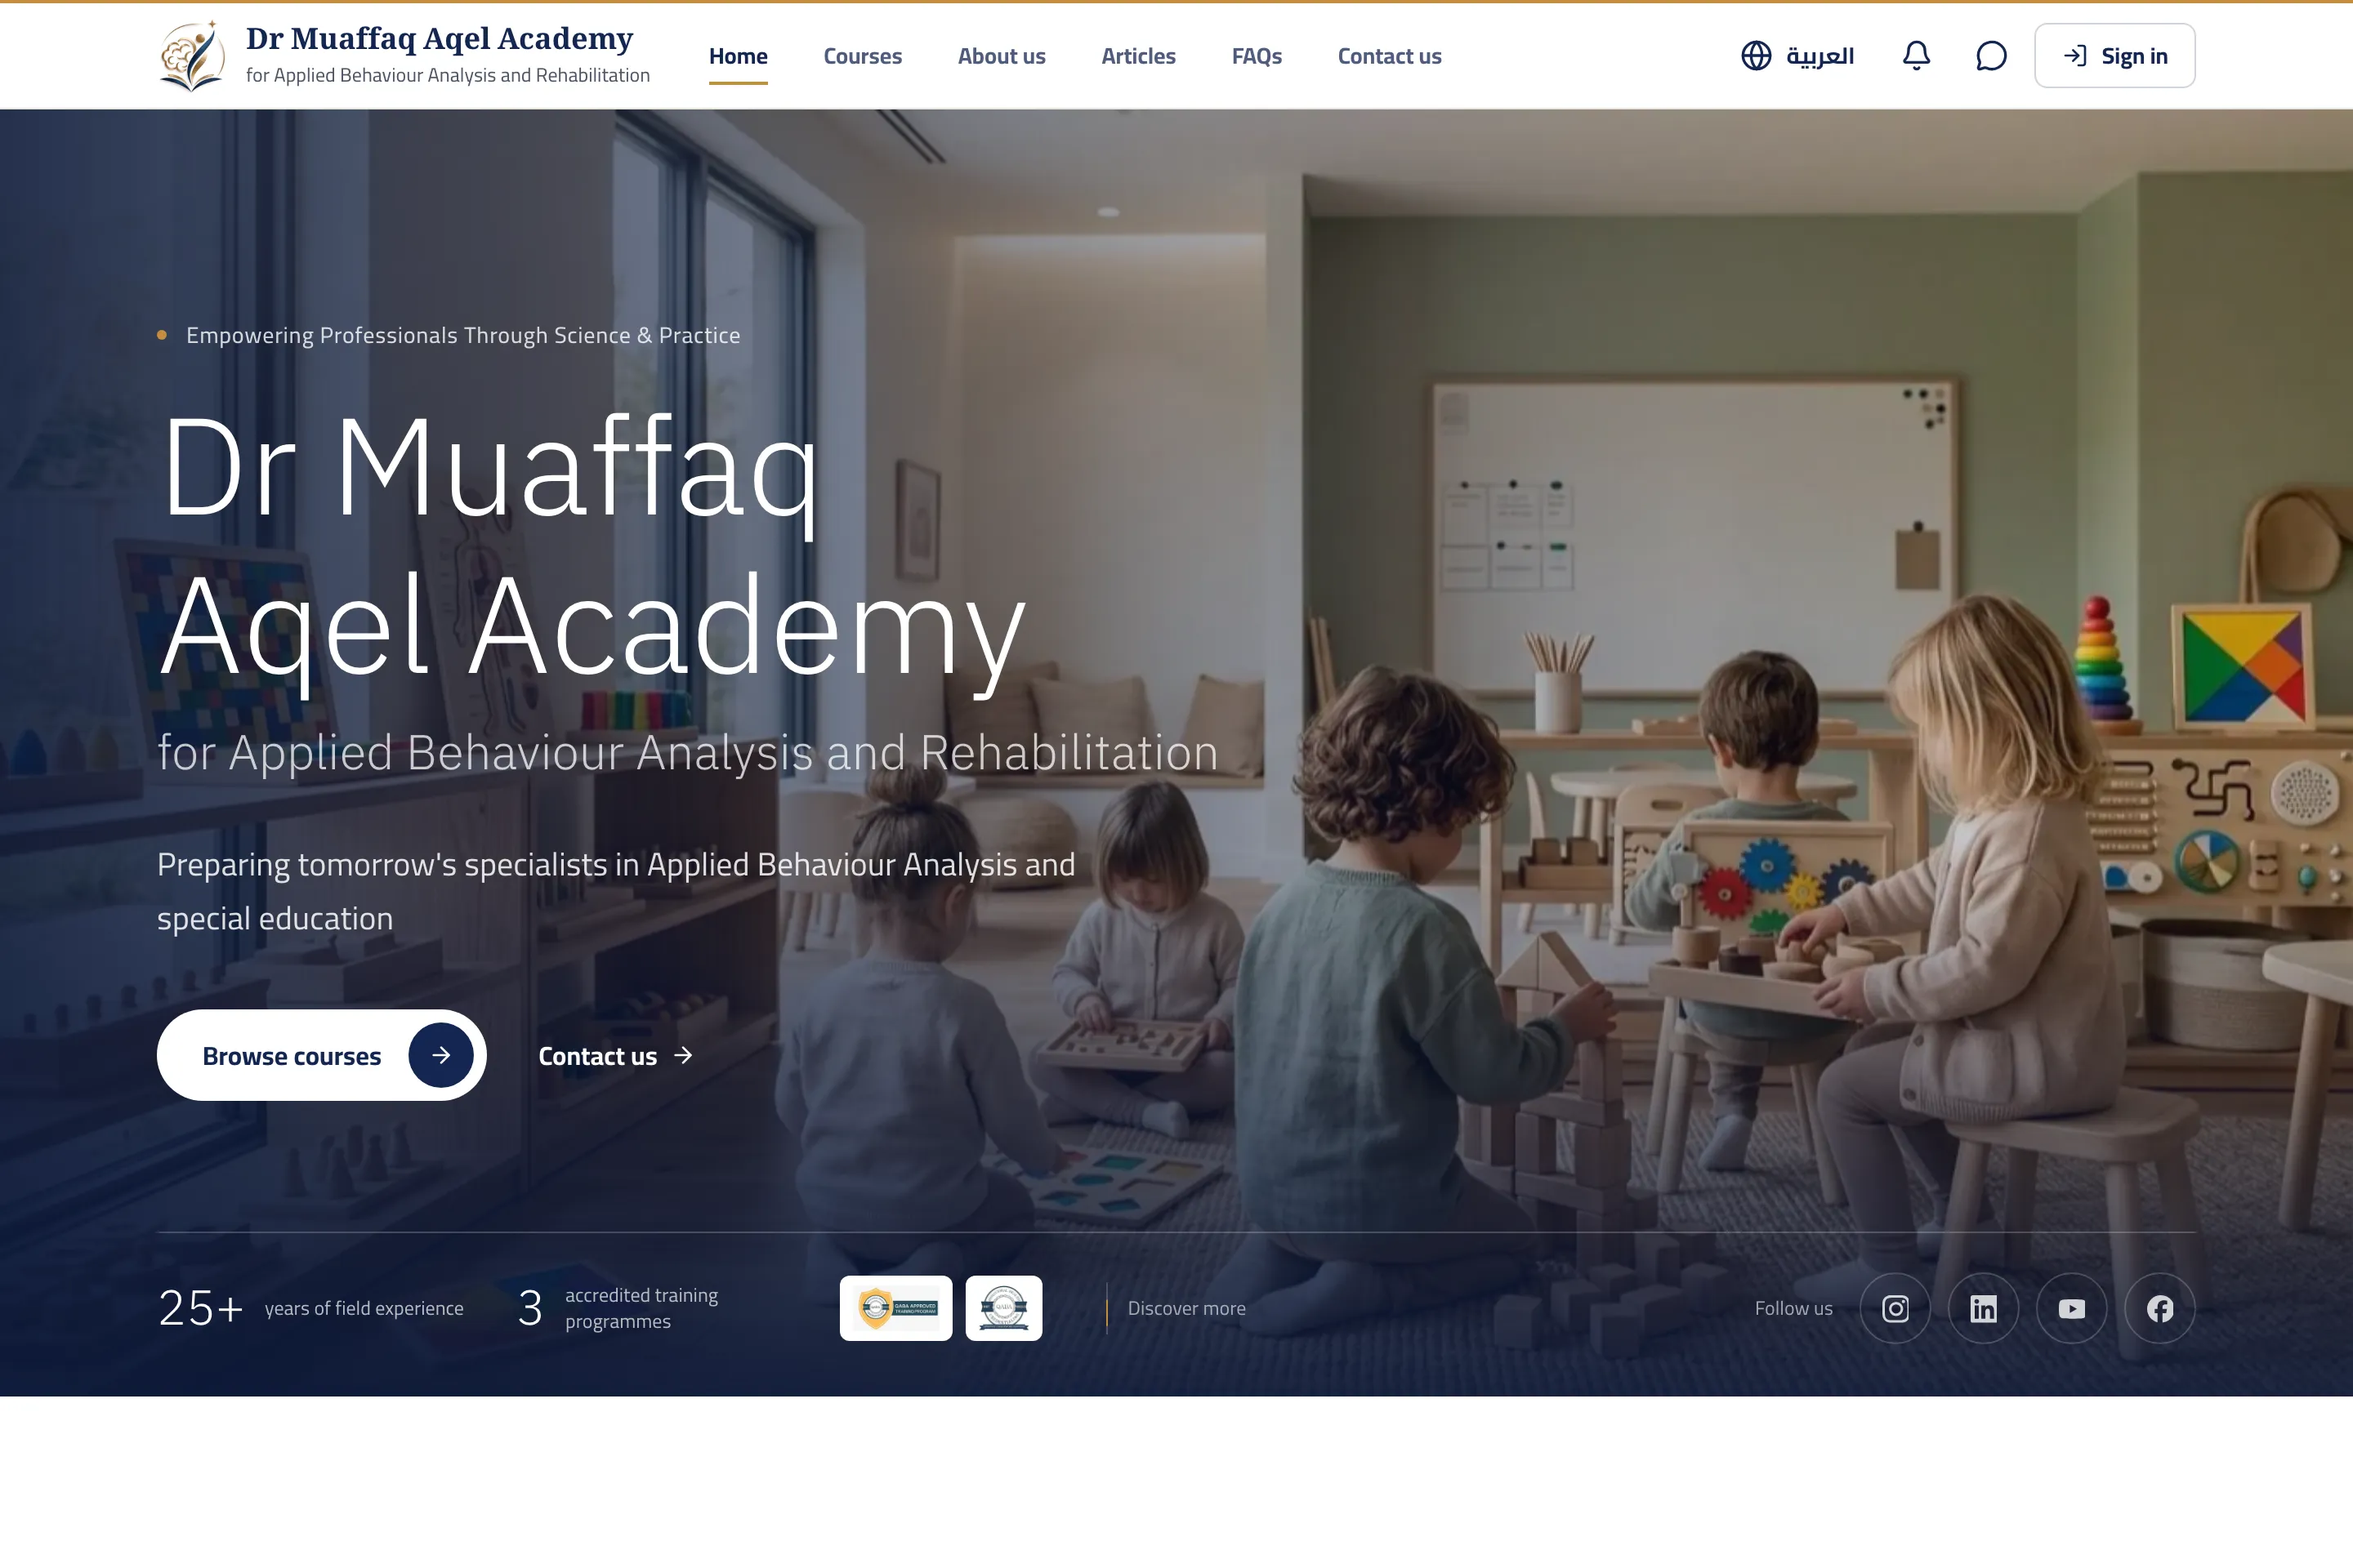
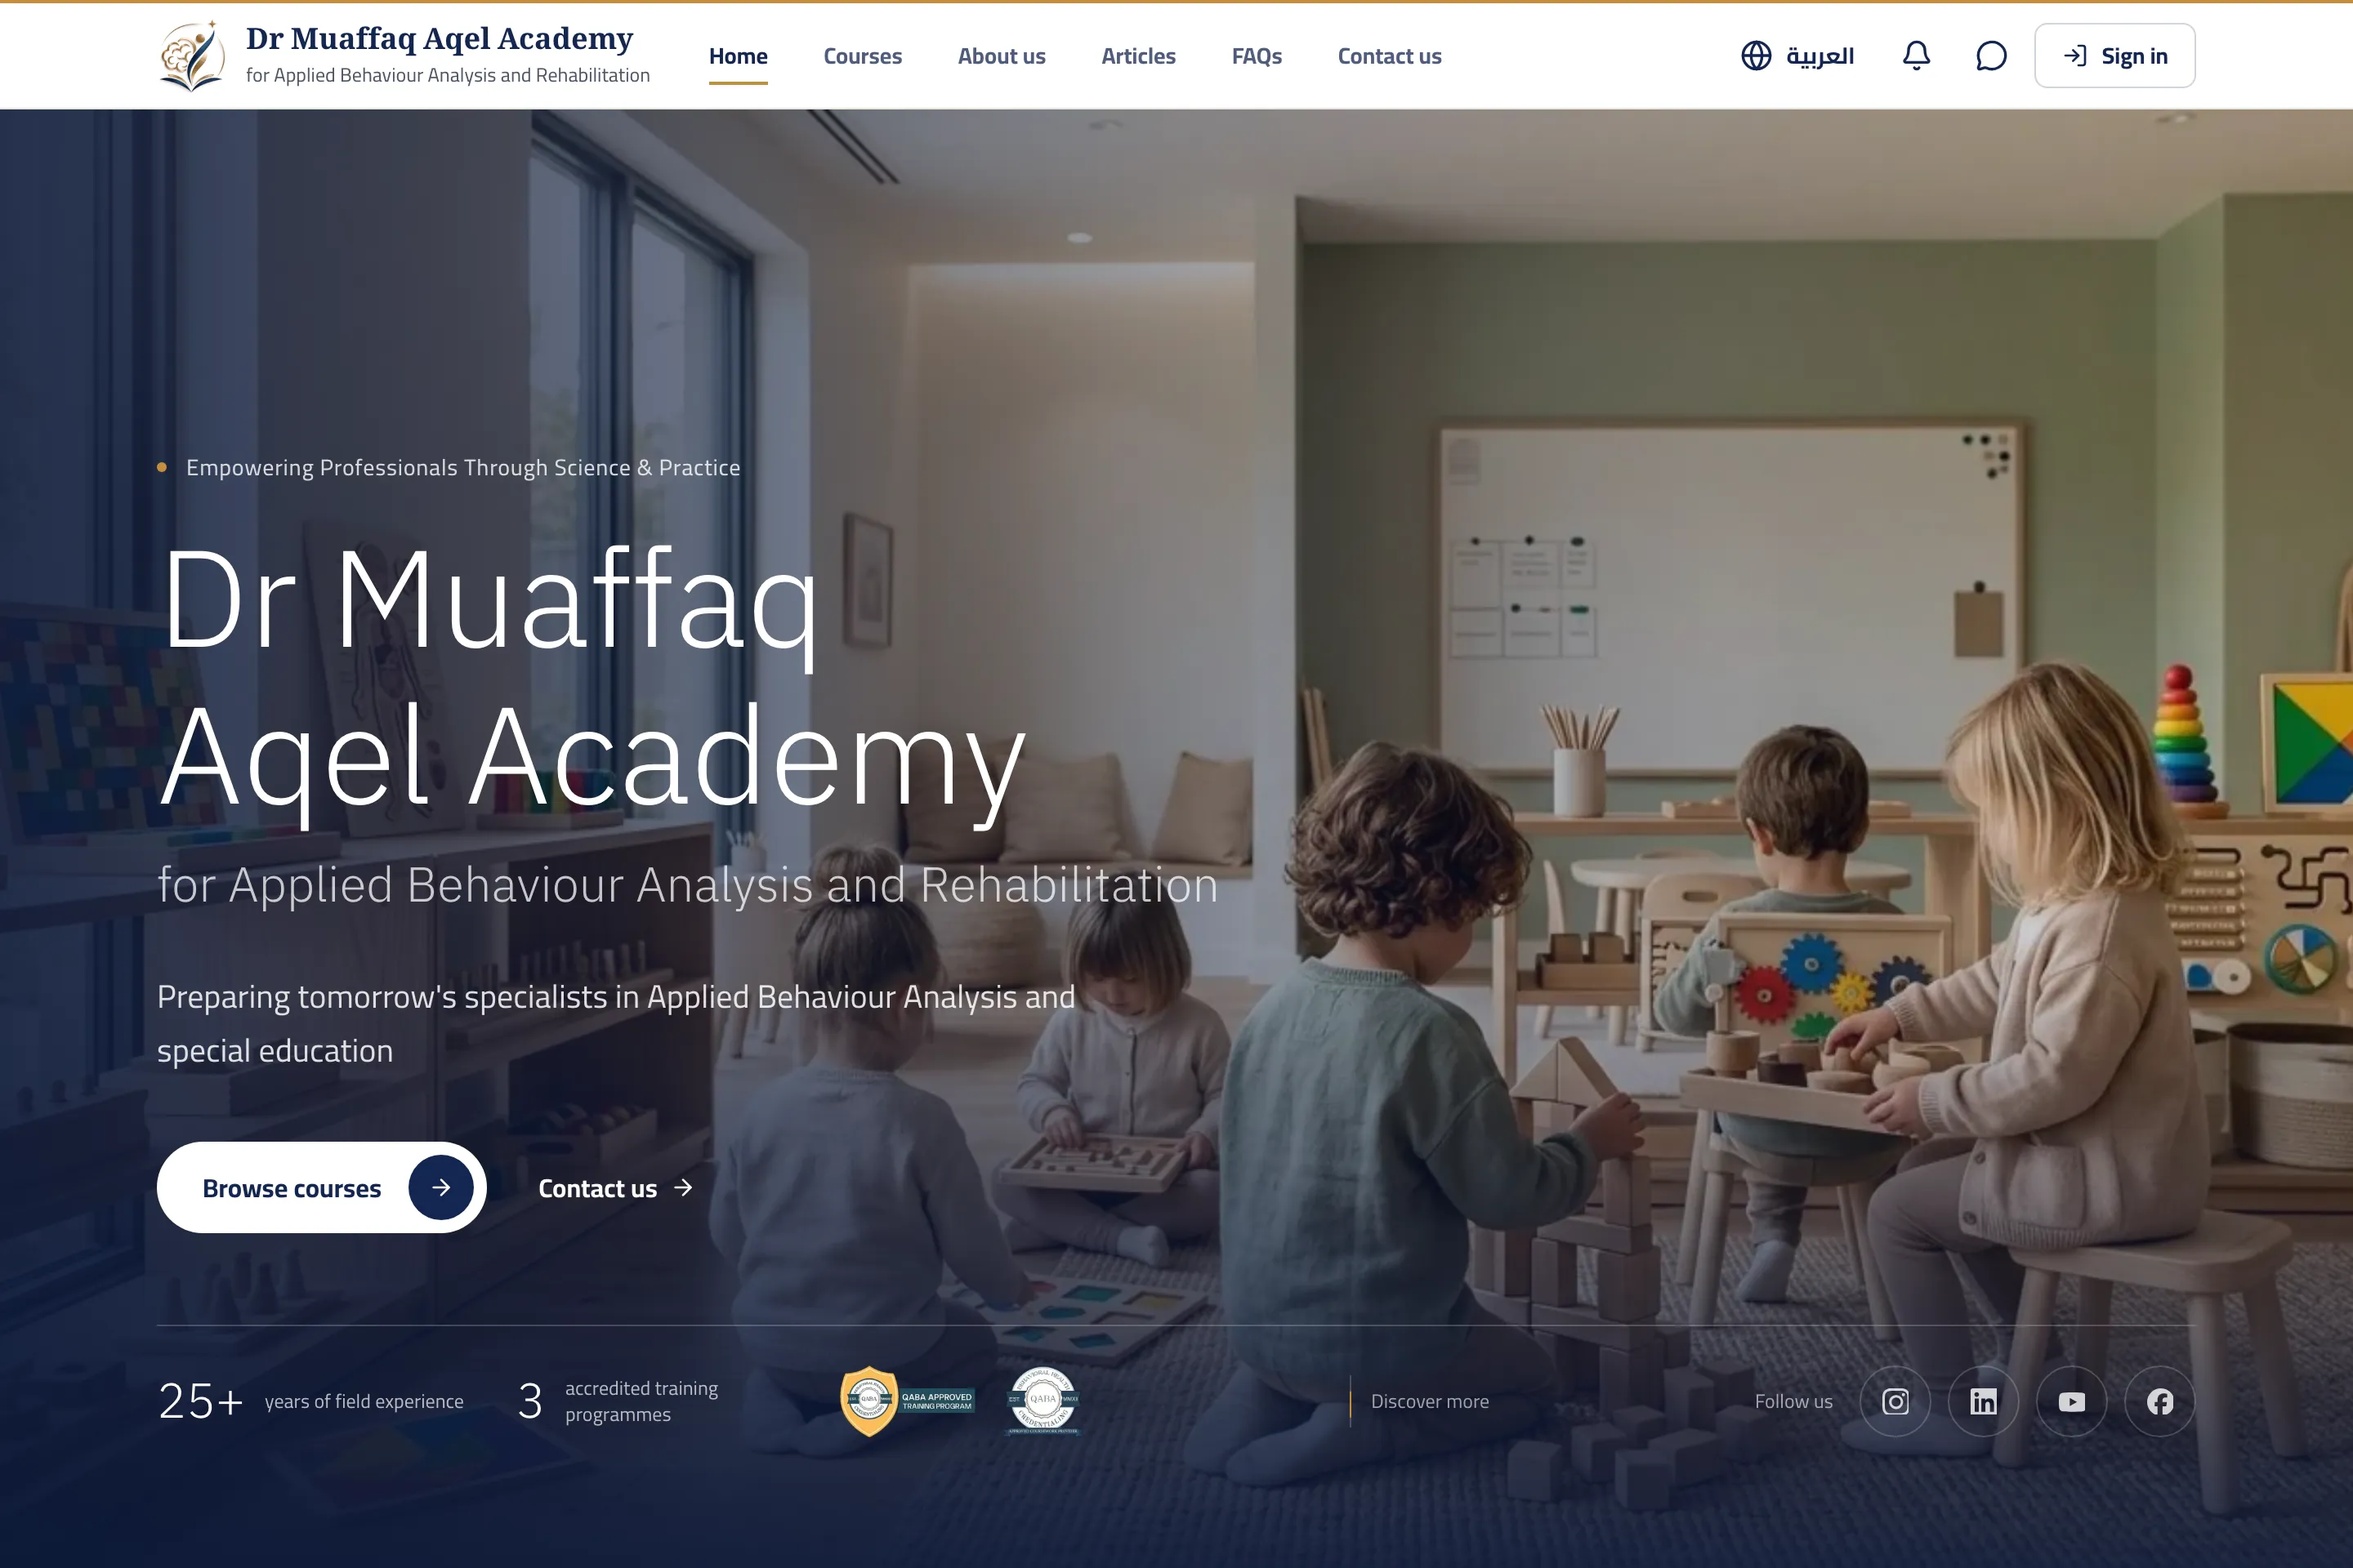
home polish V1.3

diff --git a/src/components/home/home-hero.tsx b/src/components/home/home-hero.tsx
@@ -55,7 +55,7 @@ export function HomeHero({ locale, hero, facts, accreditations }: HomeHeroProps)
           </div>
         </div>
 
-        <div className="home-hero-text container-site flex min-h-[calc(100svh-4.1875rem)] flex-col pb-6 lg:pt-20 lg:pb-8">
+        <div className="home-hero-text container-site flex min-h-[calc(100svh-4.1875rem)] flex-col pb-6 lg:pt-20 lg:pb-20">
           <div className="flex max-w-3xl flex-1 flex-col justify-end max-lg:min-h-[calc(100svh-4.1875rem-6rem)]">
             <p className="cv-intro home-rise flex items-center gap-3 text-xs font-medium text-white/80 sm:text-sm ltr:tracking-wide" style={order(0)}>
               <span aria-hidden="true" className="size-1.5 rounded-full bg-gold" />
@@ -90,7 +90,7 @@ export function HomeHero({ locale, hero, facts, accreditations }: HomeHeroProps)
             </div>
           </div>
 
-          <div className="cv-intro home-rise mt-12 grid gap-6 border-t border-white/20 pt-6 lg:mt-14 lg:grid-cols-[1fr_auto_1fr] lg:items-center" style={order(5)}>
+          <div className="cv-intro home-rise mt-12 grid gap-6 border-t border-white/20 pt-6 lg:mt-14 lg:grid-cols-[auto_1fr_auto] lg:items-center" style={order(5)}>
             <div className="grid grid-cols-2 items-center gap-x-6 gap-y-5 sm:flex sm:flex-wrap sm:gap-x-8">
               {facts.map((fact) => (
                 <p key={fact.label} className="flex items-center gap-3">
@@ -107,7 +107,7 @@ export function HomeHero({ locale, hero, facts, accreditations }: HomeHeroProps)
                 ))}
               </section>
             </div>
-            <p className="flex items-center gap-3 text-xs text-white/60 max-lg:hidden">
+            <p className="flex items-center gap-3 justify-self-center text-xs text-white/60 max-lg:hidden">
               <span aria-hidden="true" className="relative h-8 w-px overflow-hidden bg-white/20">
                 <span className="cv-cue absolute inset-x-0 top-0 h-1/2 bg-gold" />
               </span>
